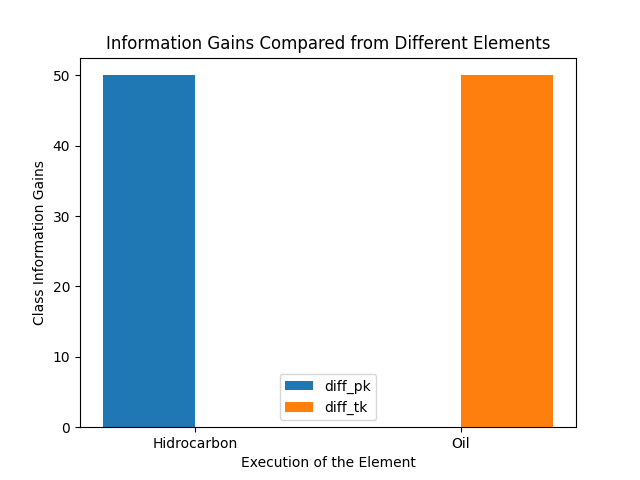
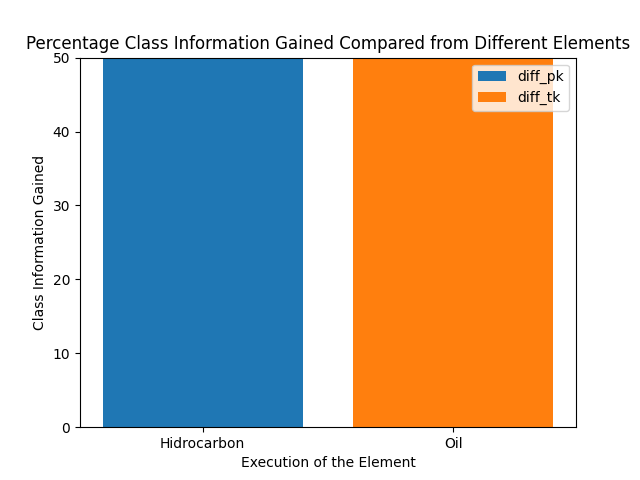
can now create a plot of classification information gained and a combined plot, also added the diff_pk and diff_tk on top of each other for ease of use

diff --git a/src/TaxonomyAnalyzer.py b/src/TaxonomyAnalyzer.py
@@ -10,14 +10,18 @@ def analyse_taxonomy(model_data, model_statistics, taxonomy_name):
     # print(model_data.loc[0, 'class_name'])
 
     # the classes within the taxonomy with their extracted class information
-    strategy = 'rigid'
+    strategy = ''
     elements = analyse_data(model_data)
-    elements = enforce_strategy_on_elements(strategy, elements)
-    print(elements)
+    elements_statistics = analyse_statistics(model_statistics, elements)
+    elements, elements_statistics = enforce_strategy_on_elements(strategy, elements, elements_statistics)
     # print(elements)
-    # elements_statistics = analyse_statistics(model_statistics, elements)
-    # # print(elements_statistics)
+    print(elements_statistics)
+
     # make_class_graph(elements_statistics, taxonomy_name)
+
+    # make_classification_graph(elements_statistics, taxonomy_name)
+
+    make_graph(elements_statistics, taxonomy_name)
 
 
 def analyse_data(model_data):
@@ -38,7 +42,7 @@ def analyse_data(model_data):
     return elements
 
 
-def enforce_strategy_on_elements(strategy, elements):
+def enforce_strategy_on_elements(strategy, elements, elements_statistics):
     # TODO IF YOU HAVE THE TIME, ADD THE HIGHEST/LOWEST SUPERCLASS/SUBCLASS COUNTS INTO THE MIX
     # removes the elements that do not belong to the strategy of the run
     match strategy:
@@ -49,6 +53,7 @@ def enforce_strategy_on_elements(strategy, elements):
                     elements_to_be_removed.append(element)
             for element in elements_to_be_removed:
                 del elements[element]
+                del elements_statistics[element]
         case "leaf":
             elements_to_be_removed = []
             for element in elements.keys():
@@ -56,6 +61,7 @@ def enforce_strategy_on_elements(strategy, elements):
                     elements_to_be_removed.append(element)
             for element in elements_to_be_removed:
                 del elements[element]
+                del elements_statistics[element]
         case "sortal":
             elements_to_be_removed = []
             for element in elements.keys():
@@ -65,6 +71,7 @@ def enforce_strategy_on_elements(strategy, elements):
                     elements_to_be_removed.append(element)
             for element in elements_to_be_removed:
                 del elements[element]
+                del elements_statistics[element]
         case "non_sortal":
             elements_to_be_removed = []
             for element in elements.keys():
@@ -73,6 +80,7 @@ def enforce_strategy_on_elements(strategy, elements):
                     elements_to_be_removed.append(element)
             for element in elements_to_be_removed:
                 del elements[element]
+                del elements_statistics[element]
         case "rigid":
             elements_to_be_removed = []
             for element in elements.keys():
@@ -81,6 +89,7 @@ def enforce_strategy_on_elements(strategy, elements):
                     elements_to_be_removed.append(element)
             for element in elements_to_be_removed:
                 del elements[element]
+                del elements_statistics[element]
         case "anti_rigid":
             elements_to_be_removed = []
             for element in elements.keys():
@@ -90,6 +99,7 @@ def enforce_strategy_on_elements(strategy, elements):
                     elements_to_be_removed.append(element)
             for element in elements_to_be_removed:
                 del elements[element]
+                del elements_statistics[element]
         case "semi_rigid":
             elements_to_be_removed = []
             for element in elements.keys():
@@ -98,21 +108,30 @@ def enforce_strategy_on_elements(strategy, elements):
                     elements_to_be_removed.append(element)
             for element in elements_to_be_removed:
                 del elements[element]
+                del elements_statistics[element]
+        case _:
+            return elements, elements_statistics
 
-    return elements
+    return elements, elements_statistics
 
 
 def analyse_statistics(model_statistics, elements):
     elements_statistics = dict()
     i = 0
     for key in elements.keys():
-        elements_statistics[key] = [model_statistics.loc[i, 'diff_pk_classes_types_p'],
-                                    model_statistics.loc[i, 'diff_tk_classes_types_p'],
-                                    model_statistics.loc[i, 'diff_unknown_classif_types_p']]
+        stats = dict()
+        stats['diff_pk_classes_types_p'] = model_statistics.loc[i, 'diff_pk_classes_types_p']
+        stats['diff_tk_classes_types_p'] = model_statistics.loc[i, 'diff_tk_classes_types_p']
+        stats['diff_known_classif_types_p'] = model_statistics.loc[i, 'diff_known_classif_types_p']
+        elements_statistics[key] = stats
+        # elements_statistics[key] = [model_statistics.loc[i, 'diff_pk_classes_types_p'],
+        #                             model_statistics.loc[i, 'diff_tk_classes_types_p'],
+        #                             model_statistics.loc[i, 'diff_unknown_classif_types_p']]
         i = i + 1
     return elements_statistics
 
 
+# TODO CHANGE THE MAX NUMBER OF ALL GRAPHS TO 100
 def make_class_graph(elements_statistics, taxonomy_name):
     # plt.style.use('seaborn-whitegrid')
     # adding the values into the graph axis
@@ -121,27 +140,92 @@ def make_class_graph(elements_statistics, taxonomy_name):
     diff_tk = []
     for element in elements_statistics.keys():
         element_names.append(element)
-        diff_pk.append(elements_statistics.get(element)[0])
-        diff_tk.append(elements_statistics.get(element)[1])
+        diff_pk.append(elements_statistics[element]['diff_pk_classes_types_p'])
+        diff_tk.append(elements_statistics[element]['diff_tk_classes_types_p'])
 
     # print(diff_pk)
     # print(diff_tk)
     x = np.arange(len(element_names))
 
-    width = 0.35
-
     fig, ax = plt.subplots()
-    bars1 = ax.bar(x - width / 2, diff_pk, width, label='diff_pk')
-    bars2 = ax.bar(x + width / 2, diff_tk, width, label='diff_tk')
+    bars1 = ax.bar(x, diff_pk, bottom=diff_tk, label='diff_pk')
+    bars2 = ax.bar(x, diff_tk, label='diff_tk')
 
     ax.set_xlabel('Execution of the Element')
-    ax.set_ylabel('Class Information Gains')
-    ax.set_title('Information Gains Compared from Different Elements')
+    ax.set_ylabel('Class Information Gained')
+    ax.set_title('Percentage Class Information Gained Compared from Different Elements')
+
+    ax.set_ylim(0, 100)
     ax.set_xticks(x)
     ax.set_xticklabels(element_names)
     ax.legend()
 
     plot_name = taxonomy_name + '_class_graph.png'
+    plt.savefig(os.path.join(plots_directory, plot_name))
+
+    plt.show()
+
+
+def make_classification_graph(elements_statistics, taxonomy_name):
+    # adding the values into the graph axis
+    element_names = []
+    classif_diff = []
+    for element in elements_statistics.keys():
+        element_names.append(element)
+        classif_diff.append(elements_statistics[element]['diff_known_classif_types_p'])
+
+    x = np.arange(len(element_names))
+
+    fig, ax = plt.subplots()
+    bars = ax.bar(x, classif_diff, label='classif_diff')
+
+    ax.set_xlabel('Execution of the Element')
+    ax.set_ylabel('Classification Information Gained')
+    ax.set_title('Percentage Classification Information Gained Compared from Different Elements')
+
+    ax.set_ylim(0, 100)
+    ax.set_xticks(x)
+    ax.set_xticklabels(element_names)
+    ax.legend()
+
+    plot_name = taxonomy_name + '_classification_graph.png'
+    plt.savefig(os.path.join(plots_directory, plot_name))
+
+    plt.show()
+
+
+def make_graph(elements_statistics, taxonomy_name):
+    # plt.style.use('seaborn-whitegrid')
+    # adding the values into the graph axis
+    element_names = []
+    diff_pk = []
+    diff_tk = []
+    classif_diff = []
+    for element in elements_statistics.keys():
+        element_names.append(element)
+        diff_pk.append(elements_statistics[element]['diff_pk_classes_types_p'])
+        diff_tk.append(elements_statistics[element]['diff_tk_classes_types_p'])
+        classif_diff.append(elements_statistics[element]['diff_known_classif_types_p'])
+
+    x = np.arange(len(element_names))
+
+    width = 0.35
+
+    fig, ax = plt.subplots()
+    bars1 = ax.bar(x - width / 2, diff_pk, width, bottom=diff_tk, label='diff_pk')
+    bars2 = ax.bar(x - width / 2, diff_tk, width, label='diff_tk')
+    bars3 = ax.bar(x + width / 2, classif_diff, width, label='classif_diff')
+
+    ax.set_xlabel('Execution of the Element')
+    ax.set_ylabel('Information Gained')
+    ax.set_title('Percentage Information Gained Compared from Different Elements')
+
+    ax.set_ylim(0, 100)
+    ax.set_xticks(x)
+    ax.set_xticklabels(element_names)
+    ax.legend()
+
+    plot_name = taxonomy_name + '_graph.png'
     plt.savefig(os.path.join(plots_directory, plot_name))
 
     plt.show()
